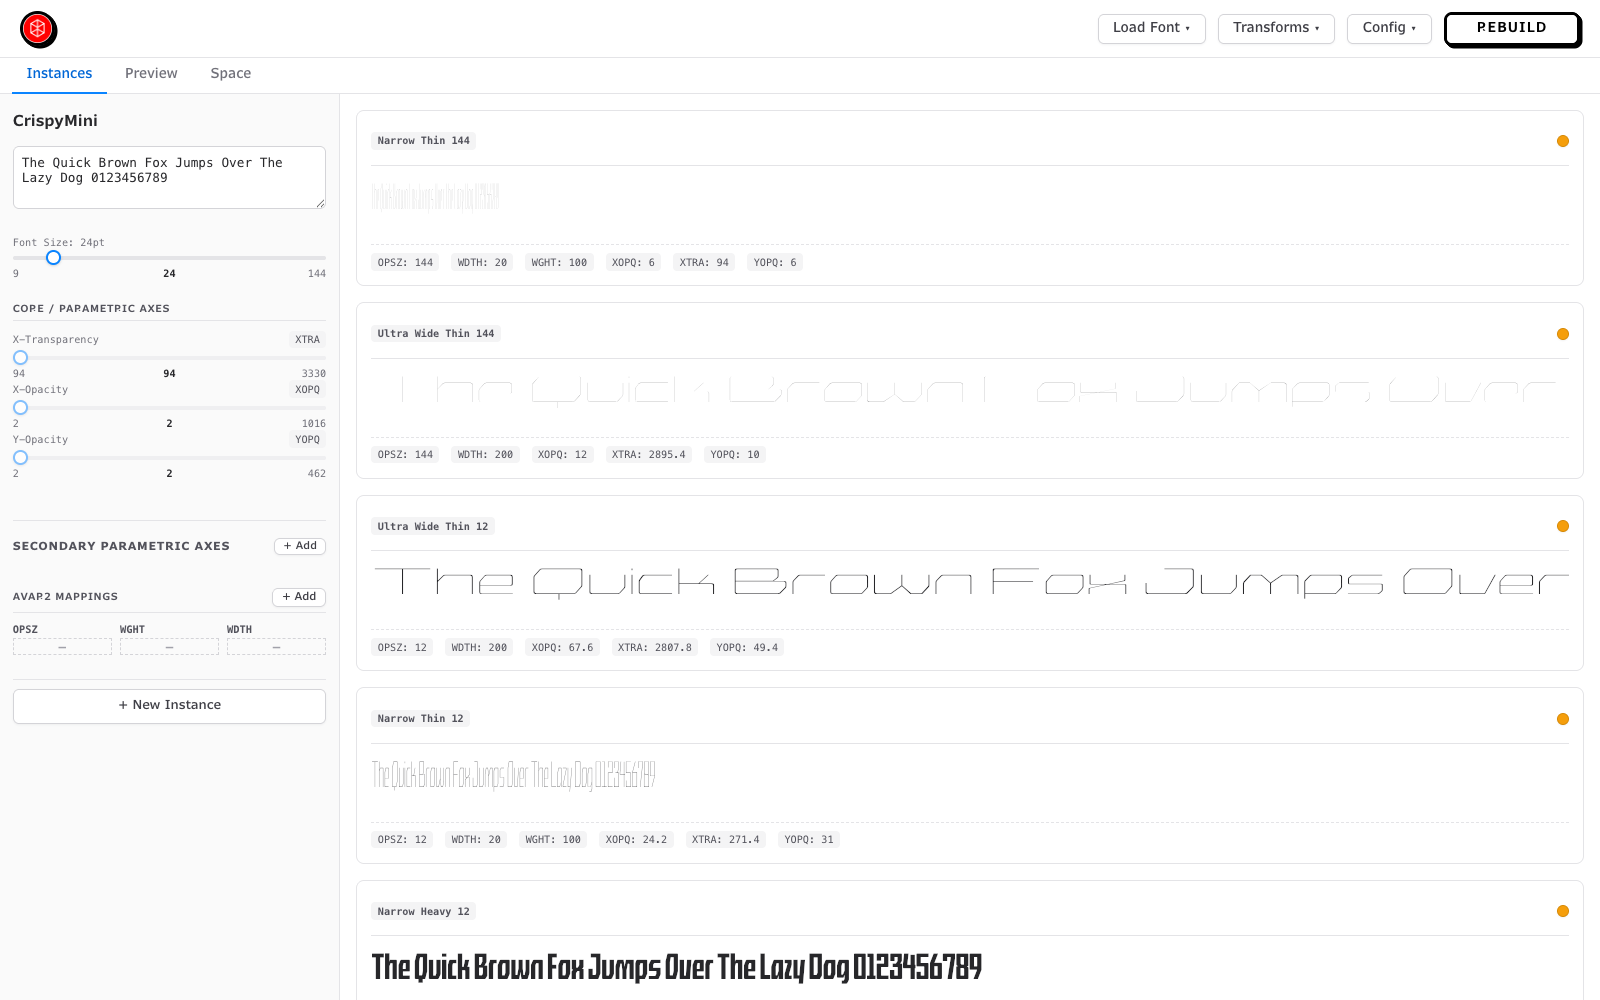
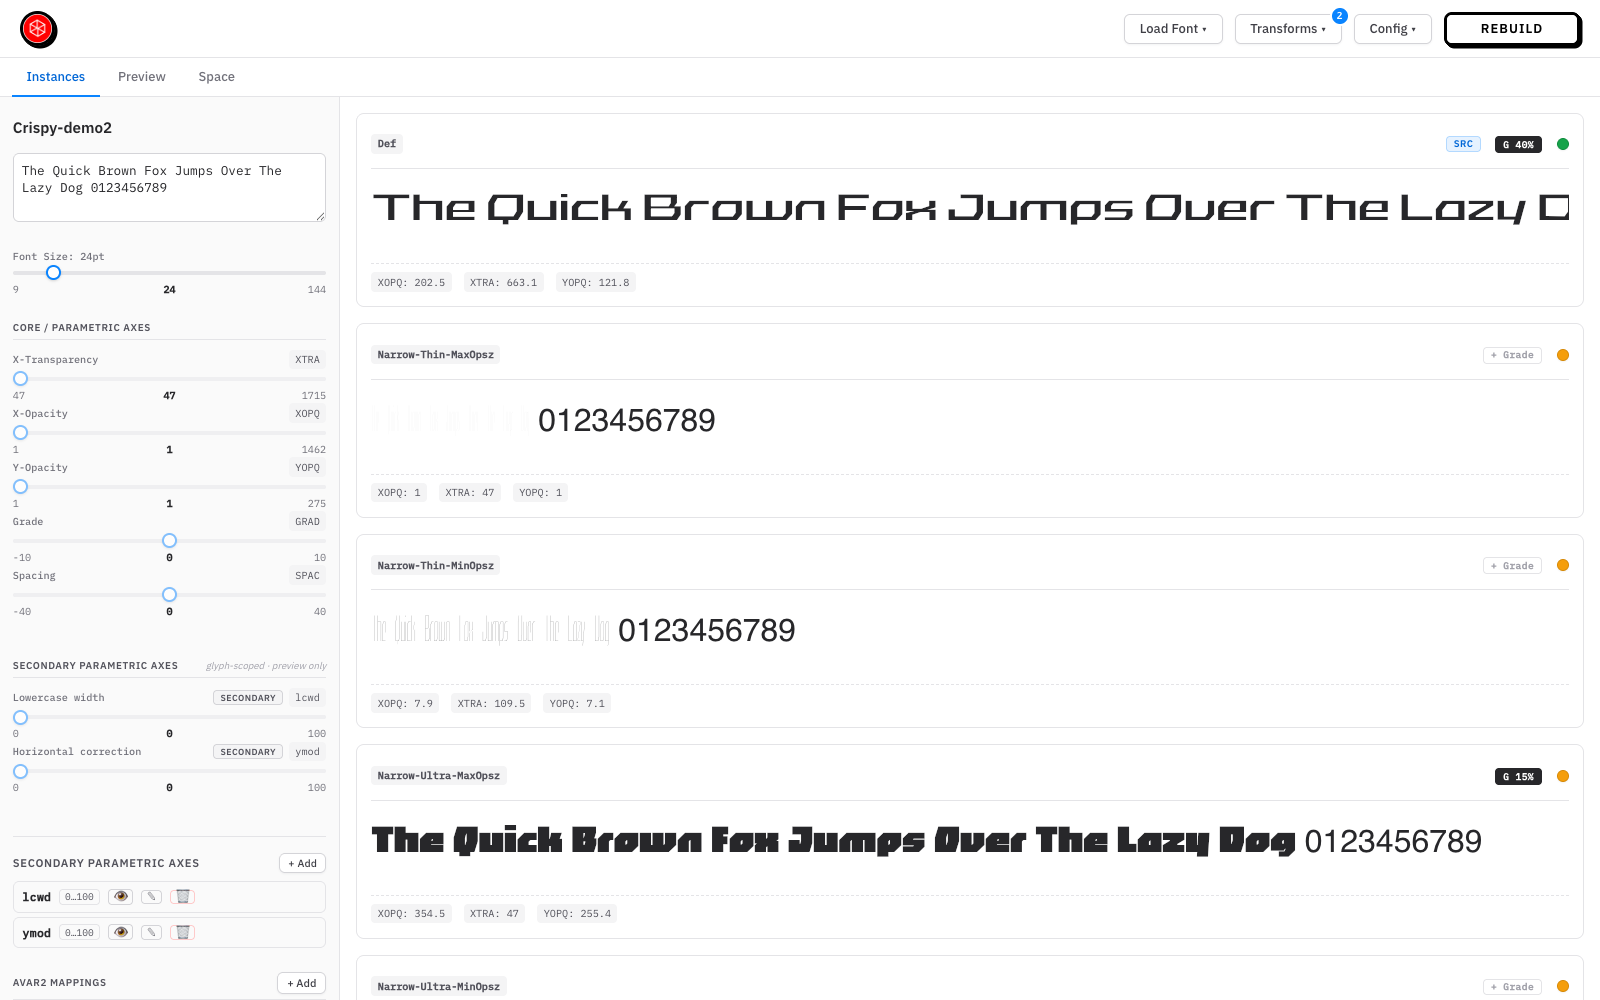
Docs: secondary-axis walkthrough, refreshed screenshots
Adds the four images the README already referenced but which were never
committed — correction layers, the Fontra reference overlay, the
secondary-axes sidebar, and the heavy-weight lcwd animation — so the
README stops rendering with broken images on GitHub and Pages.

diff --git a/README.md b/README.md
@@ -17,7 +17,8 @@ editor), and chain optional **post-build transforms** onto every build.
 ![avar2-studio — the Instances tab, each instance rendering live in the built font](docs/images/app-overview.png)
 
 Try it without installing: the [static demo](https://agyeiagyeiagyei.github.io/avar2-studio/)
-(example fonts, plus in-browser compile of uploaded `.glyphs`).
+(example fonts, plus in-browser compile of uploaded `.glyphs` — including
+secondary-axis authoring, correction layers, and the fixer transforms).
 
 ## Getting started
 
@@ -52,7 +53,9 @@ MyFont-grade.json         # grade settings (once used)
 ```
 
 Studio axis authoring never modifies your original source: builds
-compile from a shadow copy once studio-authored brace layers exist.
+compile from a shadow copy once studio-authored brace layers exist —
+and the studio watches your original, regenerating the shadow
+automatically when you edit it in Glyphs.
 
 ## Features
 
@@ -67,10 +70,41 @@ walks the full workflow.
 
 - **CORE / PARAMETRIC AXES** — deform every glyph in the font.
 - **SECONDARY PARAMETRIC AXES** — deform only chosen glyphs (`scoped`
-  and `studio` badges). **+ Add** to declare one: pick its glyphs, pin
-  brace layers at any designspace location, draw the outlines in the
-  embedded Fontra editor. Deep-dive:
-  [docs/secondary-parametric-axes.md](./docs/secondary-parametric-axes.md).
+  and `studio` badges). See the next section.
+- **Mapping lint** flags rows the build would silently drop: grid
+  points no axis reaches, and rows sitting at the default location
+  (discarded, skewing every sibling row) — before they bite.
+
+### Secondary parametric axes
+
+Sometimes the global axes are *almost* right. Crispy's `wght` runs to
+1000, and the heavy end gains contrast that sits wrong on the
+lowercase — so Crispy declares `lcwd`, an axis that renders each
+lowercase glyph there *as if at* a lighter XOPQ, while the capitals
+stay put. A secondary parametric axis is a slider that deforms only
+the glyphs you give it, built from brace layers pinned anywhere in the
+designspace.
+
+- **+ Add** to declare one: name it, pick its glyphs, pin the
+  locations. New locations can land on every applicable glyph in one
+  submit.
+- **Correction layers** compute an outline *as if at* another
+  parametric point, re-derived on every build; the studio warns when a
+  correction is unpinned and would leak along an axis.
+- Draw the outlines in the **embedded Fontra editor** — against a
+  reference font, with live measurements in the HUD.
+- Everything lands in the `-control.json` sidecar, drawings included.
+
+![Secondary parametric axes in the sidebar](docs/images/secondary-axes-sidebar.png)
+
+![Correction layers — computed "as if at" another parametric point](docs/images/correction-layers.png)
+
+<img src="docs/images/fontra-reference.png" width="450" alt="Embedded Fontra editor: drawing a brace layer against a reference font, with live measurements">
+
+![At wght 1000, engaging lcwd de-contrasts the lowercase only](docs/images/wght-heavy-lcwd.gif)
+
+Deep-dive:
+[docs/secondary-parametric-axes.md](./docs/secondary-parametric-axes.md).
 
 ### Preview & export
 
@@ -99,13 +133,15 @@ source file is never touched).
 
 ### Space tab
 
-The **Space** tab shows the designspace as an orbitable Noordzij cube:
-masters, brace layers and instances as points in the axis box, corner
-chips rendering live specimens at their exact locations — red when a
-corner has no source coverage (a ghost), with one-click pinning. The
-Coverage panel in the header lists the same audit (missing corners,
-out-of-range sources, collapses) and offers the fixes: pin a ghost
-corner, or drop out-of-range sources.
+The **Space** tab shows the designspace as an orbitable Noordzij cube —
+N-dimensional, so a fourth master-covered axis renders as a tesseract
+you can spin. Masters, brace layers and instances appear as points in
+the axis box, corner chips render live specimens at their exact
+locations — red when a corner has no source coverage (a ghost), with
+one-click pinning that **synthesizes the corner by extrapolation** when
+no sweep reaches it (and refuses inline, with the reason, when it
+can't). The findings rail in the tab lists the same audit — missing
+corners, out-of-range sources, collapses — with the fixes alongside.
 
 ![The Space tab — the designspace as an orbitable cube with live corner specimens](docs/images/space-tab.png)
 

diff --git a/docs/design-notes.md b/docs/design-notes.md
@@ -21,35 +21,40 @@ inline outline editing through an embedded Fontra drawer with studio-restricted
 multi-source batch editing; disable-in-preview.
 
 **Not built:** push-to-source / demote sync and the tri-state badge for
-secondary axes; capturing drawn outlines back into the sidecar ("model α");
-mtime-driven shadow regeneration; and the editing-context trio
-(interpolation-compat validation, context-string editing, axis-aware context
-rendering).
+secondary axes; and the editing-context trio (interpolation-compat
+validation, context-string editing, axis-aware context rendering).
+Model α is half-landed — see below.
 
 ## Model α vs. model β — where outlines live
 
-- **Model β (ships).** The sidecar stores only axis declarations + brace-layer
-  *locations* — no glif/outline XML. Drawn outlines live only in the shadow
-  `.glyphs`; they survive regeneration because `regenerate_shadow` reads them
-  back out of the *previous* shadow. **Wiping `.avar2-studio/` loses drawn
-  outlines** — with no glif in the sidecar and no prior shadow, every brace
-  layer re-seeds as a copy of the default master.
-- **Model α (goal).** Capture drawn outlines back into `-control.json` as glif
-  snippets, so the shadow is fully re-derivable from `original + sidecar` with
-  no data loss. This is the prerequisite for a truly disposable `.avar2-studio/`,
-  for original↔shadow auto-sync, and for a future Fontra Path 3 reading outlines
-  from the sidecar.
+- **Model β (current behaviour).** The sidecar stores only axis
+  declarations + brace-layer *locations* — no glif/outline XML by
+  default. Drawn outlines live only in the shadow `.glyphs`; they
+  survive regeneration because `regenerate_shadow` reads them back out
+  of the *previous* shadow. **Wiping `.avar2-studio/` loses drawn
+  outlines** — with no outline in the sidecar and no prior shadow,
+  every brace layer re-seeds as a copy of the default master.
+- **Model α (half-shipped).** The sidecar schema carries an `outline`
+  value-dump (paths/nodes, components, anchors, width), and
+  `regenerate_shadow` restores it ahead of the prior-shadow copy and
+  any seed — a sidecar with outlines regenerates the drawings with the
+  shadow wiped. `capture_outlines` does the shadow → sidecar copy,
+  skipping untouched seeds (via a seed signature stamp) and correction
+  layers (recomputed anyway). **But no server path calls it yet** — the
+  wiring (e.g. on Fontra drawer close) is the missing slice, so model β
+  behaviour is what users get today.
 
 ## Not-built roadmap
 
-- **Original↔shadow auto-sync.** No mtime-driven `regenerate_shadow`: the
-  watcher re-syncs the CSV and triggers a build but never regenerates the
-  shadow, and when the shadow is the active build path the watcher observes the
-  shadow, not the original. After editing the original outside the studio, a
-  secondary-axis action (or reload) is needed to fold the change in. A
-  model-α-era goal.
-- **Capture-back into sidecar.** Closing the Fontra drawer just rebuilds;
-  outlines persist only inside the shadow (model β).
+- ~~**Original↔shadow auto-sync**~~ **Shipped.** The watcher matches the
+  original's path too (and watches its directory); a change there runs
+  `_resolve_active_source()` — regenerating the shadow from the original —
+  then syncs the CSV and rebuilds.
+- **Capture-back into sidecar (model α).** Half-shipped: the schema, the
+  `capture_outlines` copy, and the restore in `regenerate_shadow` all
+  exist (tested round-trip), but nothing invokes the capture — closing
+  the Fontra drawer just rebuilds, so outlines persist only inside the
+  shadow until the trigger is wired.
 - **Push-to-source / demote.** No endpoint writes a studio axis into the
   original; add/delete mutate only the sidecar.
 - **Sync-state tri-state.** The red/orange/green tri-state, SRC badge, and
@@ -83,8 +88,8 @@ shipping two half-products. Path 2 bounds scope and proves the value first.
 Path 4 doesn't deliver the editor that motivates the work; it's a possible
 invisible step toward Path 3. If Path 3 is ever pursued, keep the sidecar
 simple enough to be a second consumer (stable `version`, no studio-specific
-per-axis metadata) — and note model α is a prerequisite for Fontra reading
-outlines out of it.
+per-axis metadata); the model-α `outline` field it would read already exists
+in the schema.
 
 ## Open questions
 

diff --git a/docs/secondary-parametric-axes.md b/docs/secondary-parametric-axes.md
@@ -286,17 +286,23 @@ On each secondary-axis action (and once at load), `regenerate_shadow`:
    list, and pads every master's and existing brace layer's coordinate
    vector to match.
 3. Seeds a brace layer for each `{glyph, location}` entry in the
-   sidecar. The seed outline is a **copy of the glyph's default-master
-   outline**, *or* — if a previous shadow already had a drawing at that
-   location — the **preserved prior-shadow outline** (via
-   `_extract_brace_outlines`).
+   sidecar. The outline comes from, in priority order: the **stored
+   `outline` in the sidecar** (a drawing captured by
+   `capture_outlines`), then the **preserved prior-shadow outline**
+   (via `_extract_brace_outlines`), then a **copy of the glyph's
+   default-master outline**.
 
 `.designspace` is not handled: `regenerate_shadow` returns `None` for
 any non-`.glyphs` source (see "Source-format scope").
 
-> **Outlines live only in the shadow, not the sidecar** — so wiping
-> `.avar2-studio/` loses drawn outlines. This "model β" limitation, and the
-> "model α" design that would fix it, are in [design-notes.md](design-notes.md).
+> **Outlines live in the shadow; the sidecar can carry them, but nothing
+> captures them yet.** `regenerate_shadow` restores a stored `outline`
+> ahead of the prior-shadow copy and any seed, and the sidecar schema
+> carries the field through saves — so a sidecar that has outlines is a
+> complete backup. But `capture_outlines` (the model-α half that copies
+> drawings shadow → sidecar) has no caller in the server yet, so in
+> practice wiping `.avar2-studio/` still loses drawn outlines. See
+> [design-notes.md](design-notes.md).
 
 ### Sidecar JSON shape
 
@@ -327,7 +333,10 @@ Key facts about the real shape:
   a per-glyph object keyed by glyph name. Grouping-by-glyph is a
   frontend display concern (`LayersEditor` builds a `byGlyph` Map);
   it isn't the storage shape.
-- **No `glif` / outline field.** Entries are `{glyph, location}` only.
+- **No `glif` / outline field by default.** Entries are `{glyph,
+  location}` (plus `target` for corrections). A `outline` value-dump
+  (paths/nodes, components, anchors, width) appears only on layers
+  `capture_outlines` has captured — see the note above.
 - **No `coverage` field.** Coverage is derived from the unique glyph
   names in `layers`. (`coverage` and `extra_locations` exist only as
   *legacy* keys, migrated into `layers` on load and never re-emitted.)
@@ -338,10 +347,10 @@ Key facts about the real shape:
 - **`version: 1`** so future tooling can read/write the format.
 
 The shadow is created lazily: it appears only once an axis has its first brace
-layer (the build stays on the original until then). After editing the original
-outside the studio, trigger a secondary-axis action or reload to fold the change
-into the shadow — there's no automatic original↔shadow sync yet (see
-[design-notes.md](design-notes.md)).
+layer (the build stays on the original until then). The studio also watches the
+**original** source: editing it in Glyphs regenerates the shadow from it and
+rebuilds automatically, so master/instance/glyph edits propagate without a
+reload.
 
 ## Source-format scope
 

diff --git a/docs/HANDOVER.md b/docs/HANDOVER.md
@@ -102,11 +102,13 @@ Everything below is tribal knowledge as of this handover.
   on first load (edits persist; repo fixtures stay git-clean). Uploads
   go to `~/.avar2-studio/workspace/uploaded/`, which is **wiped on every
   new upload**.
-- Outline preservation is "model β": drawn brace-layer outlines live
-  **only in the shadow file** and survive regeneration by being read
-  back from the previous shadow. **Deleting `.avar2-studio/` loses
-  drawn outlines.** True model α (outlines captured into the sidecar)
-  is designed but unbuilt — see secondary-parametric-axes.md.
+- Outline preservation: drawn brace-layer outlines live **in the
+  shadow file** and survive regeneration by being read back from the
+  previous shadow. The model-α machinery (capture into the sidecar +
+  restore from it) is implemented — `capture_outlines` and the
+  stored-`outline` restore in `regenerate_shadow` — but **no server
+  path calls `capture_outlines` yet**, so deleting `.avar2-studio/`
+  still loses drawn outlines in practice.
 
 ### Build orchestration (server.py)
 - `trigger_build()` coalesces: if a build is running, it sets
@@ -303,8 +305,10 @@ docs/migration-github-pages.md.
    test (`e2e/avar2-eval.spec.mjs`). Whether it handles the
    server-written layout has not been re-verified — test before wiring
    a "load a server-built font into the static app" path.
-4. **Shadow wipe loses drawn outlines** (model β, §3) — biggest
-   data-integrity foot-gun for users.
+4. **Shadow wipe loses drawn outlines** (§3) — the capture half of
+   model α (`capture_outlines`) exists and is tested but is never
+   invoked by the server; until it's wired (e.g. on Fontra drawer
+   close), drawings still live only in the shadow.
 5. **Fontra port 8001 collision** across simultaneous instances (§3);
    `/api/coverage` 500s silently when Fontra is down (§3).
 6. `/api/glyph-coverage` re-parses the source (and re-reads every glif
